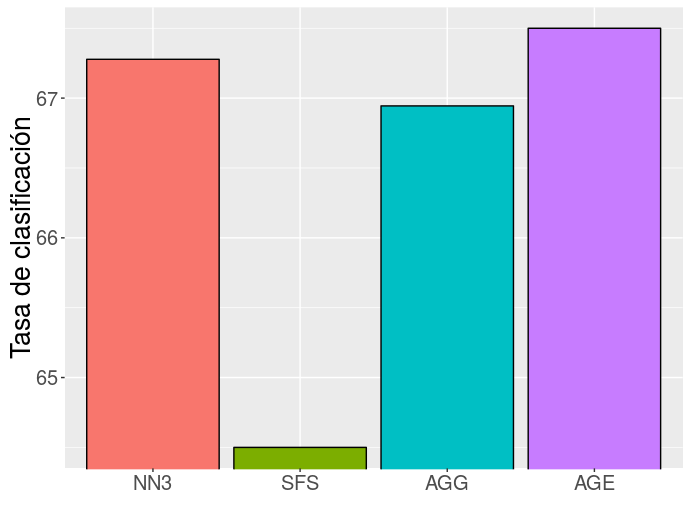
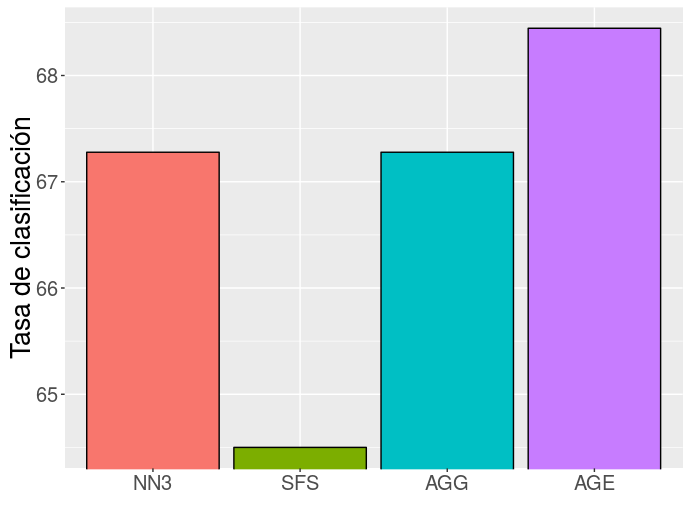
Subsanados fallos tipográficos, regeneradas gráficas

diff --git a/tex/genetic.tex b/tex/genetic.tex
@@ -258,29 +258,47 @@ obtenido.
   \normalsize
   
 \item \textbf{Generación de soluciones aleatorias}:
-  La población inicial en ambos casos se inicializa haciendo uso del siguiente procedimiento (con 30 cromosomas en el caso
-  del generacional y 2 en el estacionario):
+  La población inicial en ambos casos se inicializa haciendo uso del siguiente procedimiento, con 30 cromosomas en ambos casos.
+  (\texttt{num\_crom = 30})\\
   
   \small\texttt{\input{AG_gen_init}}
   \normalsize
 
 \item \textbf{Mecanismo de selección}:
+  El mecanismo de selección empleado ha sido el siguiente, donde para el modelo generacional \texttt{size\_generation = 30} y para
+  el estacionario se tiene \texttt{size\_generation = 2}, y en ambos casos el tamaño de la población es 30 (\texttt{num\_crom=30}).
 
+  Se emparejan aleatoriamente un número \texttt{size\_generation} de cromosomas, y se decide cuál se queda en la población por
+  torneo binario.\\
+  
   \small\texttt{\input{AG_selection}}
   \normalsize
   
+  
 \item \textbf{Operador de cruce}:
 
-  Se incluye a continuación el pseudocódigo del operador de cruce OX y de la función que se emplea para aplicarlo
+  Se incluye a continuación el pseudocódigo del operador de cruce OX y de la función que se emplea para aplicarlo\\
 
   \small\texttt{\input{AG_crossover}}
   \normalsize
 
+  
+  Se ha optado por hacer en cada generación un número de cruces equivalente a la esperanza matemática de cruzar. Esto es
+  correcto porque los cruces siguen una distribución uniforme a lo largo de las iteraciones (ya que los números aleatorios
+  que generamos siguen una distribución uniforme).
+  
 \item \textbf{Operador de mutación}:
 
   \small\texttt{\input{AG_mutation}}
   \normalsize
   
+  Puesto que la parte de selección incluía un matiz aleatorio en la ordenación del vector, mutamos siempre los cromosomas
+  que nos encontramos al principio. Se ha querido adaptar esta función para que funcione tanto para el modelo generacional
+  como el estacionario. Por tanto, el problema de usar la esperanza matemática de mutar en lugar de generar un aleatorio
+  por cada gen se materializa en que para pocos genes (wdbc tiene 30 predictores), y para 2 padres, tendremos 60 genes,
+  de los cuales sólo debemos mutar uno. ¿Mutamos siempre uno, no mutamos nunca ninguno en este caso,\ldots? Por eso para
+  resolver la tesitura se calcula el número, se lanza un aleatorio, y si es menor que él, mutaremos un gen en dicha llamada.
+  Caso opuesto, no.
 
 \end{itemize}
 
@@ -293,6 +311,9 @@ en los dos genéticos.
 \small{\texttt{\input{AGs}}}
 \normalsize
 
+La forma en que funciona \texttt{keep\_elitism} para hayar los peores de la población es ordenándola por \textit{score}.
+Además, sustituye al peor de la población si es peor en términos de \textit{score} que el anterior mejor, y si el anterior
+mejor no está en la generación nueva.
 
 La función \texttt{reeval} se emplea para calcular el \textit{score} a aquellas máscaras que se han modificado durante
 el proceso de evaluación genética, y que se han marcado a reevaluar mediante un \textit{flag}. Las máscaras que no se han
@@ -301,7 +322,7 @@ modificado no sufreen reevaluación del score.
 Sea a partir de aquí $n$ el número de predictores de los respectivos \textit{datasets}, $M$ el tamaño de la población, 
 siendo de 30 cromosomas en el caso del algoritmo generacional, y de 2 padres en el algoritmo estacionario.
 
-La estructura de los dos algoritmos a partir de todos estos procedimientos auxiliares se detalla a continuación:
+La estructura de los dos algoritmos a partir de todos estos procedimientos auxiliares se detalla a continuación.
 
 \subsection{Algoritmo genético generacional}
 
@@ -338,7 +359,7 @@ Se describe a continuación un esquema de los ficheros de código:
 \begin{itemize}
  \item \hrefr{main.r}: de arriba a abajo, carga los paquetes necesarios, incluye el código fuente de otros ficheros
   (\hrefr{aux.r}, \hrefr{AGs.r}, \ldots) y lee los parámetros necesarios, entre ellos las 
-  semillas aleatorias (12345678, 23456781, 34567812, 45678123, 56781234) del fichero \hrefr{params.r}
+  semillas aleatorias (12345678, 23456781, 34567812, 45678123, 56781234) desde el fichero \hrefr{params.r}
   
   Se ejecuta la función \texttt{cross.eval(algoritmo)}, que almacena los resultados de la ejecución en la lista
   \texttt{algoritmo.results}. Esta lista contendrá 3 dataframes con los datos del 5x2 cross validation, uno por dataset, 
@@ -443,17 +464,17 @@ Se describe a continuación un esquema de los ficheros de código:
     \begin{tabular}{|c|r|r|r|r|r|r|r|r|r|r|r|r|}
     \hline
     \multicolumn{1}{|l|}{} & \multicolumn{1}{c|}{\textbf{\textit{\%\_cl\_test}}} & \multicolumn{1}{c|}{\textbf{\textit{\%\_cl train}}} & \multicolumn{1}{c|}{\textbf{\textit{tasa\_red}}} & \multicolumn{1}{c|}{\textbf{T(s)}} & \multicolumn{1}{c|}{\textbf{\textit{\%\_cl\_test}}} & \multicolumn{1}{c|}{\textbf{\textit{\%\_cl\_train}}} & \multicolumn{1}{c|}{\textbf{\textit{tasa\_red}}} & \multicolumn{1}{c|}{\textbf{T(s)}} & \multicolumn{1}{c|}{\textbf{\textit{\%\_cl\_test}}} & \multicolumn{1}{c|}{\textbf{\textit{\%\_cl\_train}}} & \multicolumn{1}{c|}{\textbf{\textit{tasa\_red}}} & \multicolumn{1}{c|}{\textbf{T(s)}} \\ \hline
-    \textbf{Partición 1-1} & 95.43860 & 99.29577 & 0.40000 & 45.11300 & 63.88889 & 70.55556 & 0.45556 & 69.32600 & 65.46392 & 69.79167 & 0.47036 & 548.60900 \\ \hline
-    \textbf{Partición 1-2} & 96.12676 & 98.24561 & 0.50000 & 46.17800 & 65.55556 & 67.77778 & 0.48889 & 72.93000 & 62.50000 & 72.16495 & 0.47036 & 508.94200 \\ \hline
-    \textbf{Partición 2-1} & 94.38596 & 97.88732 & 0.63333 & 47.71000 & 71.66667 & 67.77778 & 0.60000 & 69.14200 & 62.37113 & 71.87500 & 0.51383 & 544.87500 \\ \hline
-    \textbf{Partición 2-2} & 94.01408 & 98.59649 & 0.53333 & 46.75800 & 63.88889 & 73.33333 & 0.44444 & 70.25600 & 61.97917 & 68.55670 & 0.46640 & 512.54800 \\ \hline
-    \textbf{Partición 3-1} & 95.78947 & 97.18310 & 0.46667 & 45.65800 & 69.44444 & 68.33333 & 0.48889 & 73.70700 & 61.34021 & 70.31250 & 0.45850 & 531.27300 \\ \hline
-    \textbf{Partición 3-2} & 95.42254 & 98.24561 & 0.50000 & 45.97100 & 63.33333 & 76.66667 & 0.53333 & 73.17100 & 60.93750 & 65.97938 & 0.48617 & 513.37600 \\ \hline
-    \textbf{Partición 4-1} & 93.33333 & 99.29577 & 0.43333 & 45.59200 & 71.11111 & 69.44444 & 0.57778 & 68.36900 & 64.94845 & 68.75000 & 0.52964 & 540.03000 \\ \hline
-    \textbf{Partición 4-2} & 97.53521 & 97.89474 & 0.46667 & 45.24500 & 67.77778 & 73.88889 & 0.51111 & 71.97300 & 62.50000 & 70.10309 & 0.50988 & 530.51000 \\ \hline
-    \textbf{Partición 5-1} & 93.68421 & 97.53521 & 0.50000 & 47.42200 & 63.88889 & 72.22222 & 0.52222 & 70.25100 & 65.97938 & 67.18750 & 0.53755 & 547.91900 \\ \hline
-    \textbf{Partición 5-2} & 95.07042 & 98.24561 & 0.36667 & 47.45400 & 68.88889 & 66.11111 & 0.57778 & 72.09200 & 65.62500 & 68.04124 & 0.48221 & 497.80500 \\ \hline
-    \textbf{Media} & 95.08006 & 98.24252 & 0.48000 & 46.31010 & 66.94445 & 70.61111 & 0.52000 & 71.12170 & 63.36448 & 69.27620 & 0.49249 & 527.58870 \\ \hline
+    \textbf{Partición 1-1} & 96.14035 & 98.94366 & 0.46667 & 42.45600 & 63.88889 & 70.55556 & 0.53333 & 69.70300 & 69.07216 & 68.22917 & 0.47431 & 540.86500 \\ \hline
+    \textbf{Partición 1-2} & 95.07042 & 98.59649 & 0.63333 & 43.79400 & 65.55556 & 71.11111 & 0.47778 & 70.91200 & 66.14583 & 70.61856 & 0.58498 & 501.70800 \\ \hline
+    \textbf{Partición 2-1} & 95.08772 & 97.18310 & 0.50000 & 45.44200 & 66.11111 & 67.77778 & 0.48889 & 74.08400 & 62.37113 & 72.39583 & 0.46640 & 537.66100 \\ \hline
+    \textbf{Partición 2-2} & 96.47887 & 98.94737 & 0.46667 & 45.10000 & 62.77778 & 75.55556 & 0.53333 & 77.48200 & 61.97917 & 65.97938 & 0.49012 & 496.93400 \\ \hline
+    \textbf{Partición 3-1} & 96.14035 & 97.18310 & 0.53333 & 43.84000 & 73.33333 & 68.88889 & 0.48889 & 77.51000 & 63.91753 & 67.18750 & 0.49012 & 520.82900 \\ \hline
+    \textbf{Partición 3-2} & 95.07042 & 98.24561 & 0.46667 & 45.26400 & 66.66667 & 78.88889 & 0.48889 & 77.85100 & 61.97917 & 67.52577 & 0.46640 & 492.01200 \\ \hline
+    \textbf{Partición 4-1} & 95.08772 & 99.29577 & 0.40000 & 44.32100 & 73.33333 & 69.44444 & 0.47778 & 72.34400 & 68.04124 & 68.22917 & 0.54545 & 533.04200 \\ \hline
+    \textbf{Partición 4-2} & 96.83099 & 97.19298 & 0.56667 & 44.96400 & 66.11111 & 73.88889 & 0.52222 & 72.25600 & 61.45833 & 69.58763 & 0.50593 & 503.29800 \\ \hline
+    \textbf{Partición 5-1} & 96.84211 & 97.53521 & 0.33333 & 45.77500 & 65.55556 & 73.88889 & 0.53333 & 65.11200 & 60.30928 & 68.22917 & 0.52964 & 551.07800 \\ \hline
+    \textbf{Partición 5-2} & 92.60563 & 98.24561 & 0.63333 & 49.35300 & 69.44444 & 65.55556 & 0.46667 & 65.12700 & 64.06250 & 65.97938 & 0.55731 & 518.51600 \\ \hline
+    \textbf{Media} & 95.53546 & 98.13689 & 0.50000 & 45.03090 & 67.27778 & 71.55556 & 0.50111 & 72.23810 & 63.93363 & 68.39616 & 0.51107 & 519.59430 \\ \hline
     \end{tabular}
     \end{adjustbox}
     \label{AGG}
@@ -466,17 +487,17 @@ Se describe a continuación un esquema de los ficheros de código:
     \hline
     \multicolumn{1}{|l|}{} & \multicolumn{ 4}{c|}{\textbf{\textit{Wdbc}}} & \multicolumn{ 4}{c|}{\textbf{\textit{Movement\_Libras}}} & \multicolumn{ 4}{c|}{\textbf{\textit{Arrhytmia}}} \\ \hline
     \multicolumn{1}{|l|}{} & \multicolumn{1}{c|}{\textbf{\textit{\%\_cl\_test}}} & \multicolumn{1}{c|}{\textbf{\textit{\%\_cl train}}} & \multicolumn{1}{c|}{\textbf{\textit{tasa\_red}}} & \multicolumn{1}{c|}{\textbf{T(s)}} & \multicolumn{1}{c|}{\textbf{\textit{\%\_cl\_test}}} & \multicolumn{1}{c|}{\textbf{\textit{\%\_cl\_train}}} & \multicolumn{1}{c|}{\textbf{\textit{tasa\_red}}} & \multicolumn{1}{c|}{\textbf{T(s)}} & \multicolumn{1}{c|}{\textbf{\textit{\%\_cl\_test}}} & \multicolumn{1}{c|}{\textbf{\textit{\%\_cl\_train}}} & \multicolumn{1}{c|}{\textbf{\textit{tasa\_red}}} & \multicolumn{1}{c|}{\textbf{T(s)}} \\ \hline
-    \textbf{Partición 1-1} & 96.14035 & 98.94366 & 0.46667 & 51.31300 & 67.22222 & 70.55556 & 0.56667 & 76.69800 & 66.49485 & 67.70833 & 0.45850 & 537.95500 \\ \hline
-    \textbf{Partición 1-2} & 95.07042 & 97.54386 & 0.50000 & 52.01200 & 67.22222 & 67.77778 & 0.53333 & 77.25400 & 66.66667 & 69.58763 & 0.50988 & 484.26300 \\ \hline
-    \textbf{Partición 2-1} & 96.14035 & 96.83099 & 0.43333 & 53.46600 & 69.44444 & 66.11111 & 0.45556 & 76.97900 & 65.97938 & 70.31250 & 0.52964 & 517.42800 \\ \hline
-    \textbf{Partición 2-2} & 95.07042 & 98.24561 & 0.46667 & 52.37200 & 62.77778 & 74.44444 & 0.48889 & 77.41500 & 63.02083 & 67.52577 & 0.49407 & 482.03800 \\ \hline
-    \textbf{Partición 3-1} & 95.78947 & 96.83099 & 0.40000 & 50.93600 & 73.88889 & 65.55556 & 0.50000 & 81.32900 & 62.88660 & 67.18750 & 0.52964 & 508.25000 \\ \hline
-    \textbf{Partición 3-2} & 94.36620 & 97.54386 & 0.46667 & 50.19900 & 63.88889 & 79.44444 & 0.53333 & 77.27300 & 65.10417 & 65.97938 & 0.48221 & 484.88200 \\ \hline
-    \textbf{Partición 4-1} & 95.43860 & 99.29577 & 0.43333 & 51.66500 & 71.11111 & 68.88889 & 0.45556 & 75.97700 & 67.52577 & 65.62500 & 0.51383 & 512.91900 \\ \hline
-    \textbf{Partición 4-2} & 96.12676 & 96.49123 & 0.40000 & 53.90800 & 63.33333 & 73.33333 & 0.48889 & 80.06300 & 63.02083 & 67.01031 & 0.56522 & 507.23600 \\ \hline
-    \textbf{Partición 5-1} & 93.68421 & 97.53521 & 0.50000 & 52.59400 & 65.00000 & 71.66667 & 0.54444 & 78.05500 & 63.40206 & 66.14583 & 0.48617 & 537.42000 \\ \hline
-    \textbf{Partición 5-2} & 95.42254 & 98.24561 & 0.36667 & 50.38200 & 71.11111 & 66.66667 & 0.52222 & 78.91300 & 61.97917 & 68.55670 & 0.49802 & 493.28200 \\ \hline
-    \textbf{Media} & 95.32493 & 97.75068 & 0.44333 & 51.88470 & 67.50000 & 70.44445 & 0.50889 & 77.99560 & 64.60803 & 67.56390 & 0.50672 & 506.56730 \\ \hline
+    \textbf{Partición 1-1} & 95.43860 & 99.29577 & 0.40000 & 50.12100 & 65.00000 & 71.66667 & 0.57778 & 71.52400 & 67.52577 & 69.79167 & 0.49802 & 520.74700 \\ \hline
+    \textbf{Partición 1-2} & 96.47887 & 98.24561 & 0.43333 & 52.61000 & 68.88889 & 69.44444 & 0.43333 & 78.16000 & 66.14583 & 68.55670 & 0.58498 & 474.08400 \\ \hline
+    \textbf{Partición 2-1} & 95.43860 & 97.53521 & 0.60000 & 52.66800 & 72.22222 & 66.66667 & 0.47778 & 75.68800 & 64.43299 & 70.31250 & 0.51383 & 523.33000 \\ \hline
+    \textbf{Partición 2-2} & 95.42254 & 98.59649 & 0.50000 & 47.40900 & 65.00000 & 72.77778 & 0.50000 & 75.94300 & 66.66667 & 69.58763 & 0.46640 & 503.43600 \\ \hline
+    \textbf{Partición 3-1} & 95.78947 & 97.53521 & 0.60000 & 45.66200 & 73.88889 & 67.77778 & 0.50000 & 80.08000 & 61.85567 & 67.70833 & 0.52174 & 545.61800 \\ \hline
+    \textbf{Partición 3-2} & 94.01408 & 98.24561 & 0.53333 & 47.37400 & 65.00000 & 79.44444 & 0.52222 & 75.07400 & 63.54167 & 66.49485 & 0.57708 & 482.20600 \\ \hline
+    \textbf{Partición 4-1} & 94.73684 & 99.29577 & 0.40000 & 46.46900 & 72.22222 & 67.22222 & 0.42222 & 74.29900 & 63.91753 & 67.70833 & 0.47826 & 516.64900 \\ \hline
+    \textbf{Partición 4-2} & 96.47887 & 97.54386 & 0.50000 & 47.50900 & 67.22222 & 72.77778 & 0.46667 & 78.42300 & 63.02083 & 68.55670 & 0.55336 & 490.41700 \\ \hline
+    \textbf{Partición 5-1} & 96.49123 & 97.88732 & 0.50000 & 47.69300 & 66.66667 & 73.33333 & 0.54444 & 72.92700 & 62.88660 & 68.22917 & 0.50988 & 531.90500 \\ \hline
+    \textbf{Partición 5-2} & 95.07042 & 98.24561 & 0.53333 & 45.56600 & 68.33333 & 68.33333 & 0.50000 & 70.38900 & 64.06250 & 71.13402 & 0.50988 & 493.30900 \\ \hline
+    \textbf{Media} & 95.53595 & 98.24265 & 0.50000 & 48.30810 & 68.44444 & 70.94444 & 0.49444 & 75.25070 & 64.40561 & 68.80799 & 0.52134 & 508.17010 \\ \hline
     \end{tabular}
     \end{adjustbox}
     \label{AGE}

diff --git a/tex/multi-restart.tex b/tex/multi-restart.tex
@@ -254,7 +254,7 @@ exceptuando la clase, donde un 1 en la posición $i-$ésima indica que esa carac
 \small\texttt{\input{tasa_clasificacion}}
 \normalsize
 
-\item \textbf{Generación de solución inicial: }
+\item \textbf{Generación de solución aleatoria inicial: }
   \begin{itemize}
    \item BMB: En la BMB se generarán 25 soluciones aleatorias sobre las que se aplicará búsqueda local.
    para refinarlas.\\
@@ -262,15 +262,7 @@ exceptuando la clase, donde un 1 en la posición $i-$ésima indica que esa carac
    \small\texttt{\input{BMB_gen_init}}
    \normalsize
    
-   \item GRASP: La solución inicial se generará mediante un \textit{greedy} aleatorizado, y se refinará mediante
-   la búsqueda local, quedándonos con la mejor de entre 25 generadas.\\
-   
-   \small\texttt{\input{GRASP_gen_init}}
-   \normalsize
-   
-   \item ILS: Se generará una solución inicial aleatoria mediante el procedimiento descrito a continuación, y sobre esa se
-   aplicará búsqueda local, y el resto de iteraciones del algoritmo (24), se aplicará el mismo sobre la mejor solución
-   mutada.\\
+   \item ILS: Se generará una solución inicial aleatoria mediante el procedimiento descrito a continuación:
    
    \small\texttt{\input{ILS_gen_init}}
    \normalsize
@@ -302,16 +294,29 @@ Se incluyen a continuación una descripción de cada metaheurística empleada ju
 
 Sea a partir de aquí $n$ el número de predictores de los respectivos \textit{datasets}.
 \subsection{Búsqueda multiarranque básica}
+Puesto que \texttt{max\_arranques} vale 25, se generan 25 soluciones iniciales, se les aplica búsqueda local, y nos quedamos
+con la que maximiza el \textit{score}.\\
 
 \small{\texttt{\input{BMB}}}
 \normalsize
 
 \subsection{GRASP}
+La solución inicial se generará mediante un \textit{greedy} aleatorizado, y se refinará mediante
+la búsqueda local, quedándonos con la mejor de entre 25 generadas.\\
+   
+\small\texttt{\input{GRASP_gen_init}}
+\normalsize
+
+Se generan 25 soluciones greedy aleatorizadas (ya que en este caso \texttt{max\_arranques} vale 25), se les aplica búsqueda
+local, y nos quedamos con la que maximiza el \textit{score}.\\
 
 \small{\texttt{\input{GRASP}}}
 \normalsize
 
 \subsection{Búsqueda Local Reiterada (ILS)}
+Se genera una solución inicial aleatoria mediante el procedimiento descrito anteriormente, y sobre esa se
+aplica búsqueda local, y el resto de iteraciones del algoritmo (24), se efectúa el mismo procedimiento sobre la mejor solución
+mutada.\\
 
 \small{\texttt{\input{ILS}}}
 \normalsize
@@ -488,18 +493,18 @@ Se describe a continuación un esquema de los ficheros de código:
   \begin{tabular}{|c|r|r|r|r|r|r|r|r|r|r|r|r|}
   \hline
   \multicolumn{1}{|l|}{} & \multicolumn{ 4}{c|}{\textbf{\textit{Wdbc}}} & \multicolumn{ 4}{c|}{\textbf{\textit{Movement\_Libras}}} & \multicolumn{ 4}{c|}{\textbf{\textit{Arrhytmia}}} \\ \hline
-  \multicolumn{1}{|l|}{} & \multicolumn{1}{c|}{\textbf{\textit{\%\_clas\_test}}} & \multicolumn{1}{c|}{\textbf{\textit{\%\_clas train}}} & \multicolumn{1}{c|}{\textbf{\textit{tasa\_red}}} & \multicolumn{1}{c|}{\textbf{T(s)}} & \multicolumn{1}{c|}{\textbf{\textit{\%\_clas\_test}}} & \multicolumn{1}{c|}{\textbf{\textit{\%\_clas\_train}}} & \multicolumn{1}{c|}{\textbf{\textit{tasa\_red}}} & \multicolumn{1}{c|}{\textbf{T(s)}} & \multicolumn{1}{c|}{\textbf{\textit{\%\_clas\_test}}} & \multicolumn{1}{c|}{\textbf{\textit{\%\_clas\_train}}} & \multicolumn{1}{c|}{\textbf{\textit{tasa\_red}}} & \multicolumn{1}{c|}{\textbf{T(s)}} \\ \hline
-  \textbf{Partición 1-1} & 95.78947 & 99.29577 & 0.66667 & 3.89100 & 65.00000 & 73.33333 & 0.54444 & 17.71700 & 65.97938 & 68.22917 & 0.49407 & 430.85800 \\ \hline
-  \textbf{Partición 1-2} & 96.47887 & 98.59649 & 0.63333 & 4.01700 & 68.33333 & 68.88889 & 0.51111 & 19.27500 & 66.14583 & 71.13402 & 0.53360 & 462.95000 \\ \hline
-  \textbf{Partición 2-1} & 96.84211 & 98.23944 & 0.60000 & 4.31800 & 70.00000 & 71.11111 & 0.50000 & 24.34100 & 65.46392 & 72.39583 & 0.53360 & 532.44900 \\ \hline
-  \textbf{Partición 2-2} & 95.42254 & 98.94737 & 0.50000 & 4.45000 & 65.00000 & 74.44444 & 0.42222 & 22.60300 & 66.14583 & 69.07216 & 0.53360 & 425.70100 \\ \hline
-  \textbf{Partición 3-1} & 96.49123 & 97.88732 & 0.50000 & 5.16800 & 72.77778 & 73.33333 & 0.51111 & 22.46600 & 59.27835 & 67.70833 & 0.45059 & 573.51300 \\ \hline
-  \textbf{Partición 3-2} & 95.07042 & 98.59649 & 0.40000 & 4.67000 & 65.55556 & 78.33333 & 0.47778 & 20.18200 & 67.18750 & 63.91753 & 0.55731 & 484.83600 \\ \hline
-  \textbf{Partición 4-1} & 94.73684 & 99.29577 & 0.43333 & 4.56700 & 71.11111 & 67.22222 & 0.56667 & 19.24300 & 67.01031 & 70.31250 & 0.45059 & 472.73000 \\ \hline
-  \textbf{Partición 4-2} & 98.23944 & 98.24561 & 0.66667 & 3.76200 & 67.22222 & 75.00000 & 0.50000 & 18.53900 & 63.02083 & 67.52577 & 0.48617 & 445.80500 \\ \hline
-  \textbf{Partición 5-1} & 96.14035 & 98.23944 & 0.60000 & 4.72700 & 63.33333 & 75.00000 & 0.46667 & 23.46200 & 61.34021 & 70.31250 & 0.51779 & 478.56200 \\ \hline
-  \textbf{Partición 5-2} & 92.60563 & 98.24561 & 0.43333 & 4.12600 & 69.44444 & 67.77778 & 0.51111 & 20.80600 & 64.58333 & 66.49485 & 0.45059 & 474.51200 \\ \hline
-  \textbf{Media} & 95.78169 & 98.55893 & 0.54333 & 4.36960 & 67.77778 & 72.44444 & 0.50111 & 20.86340 & 64.61555 & 68.71027 & 0.50079 & 478.19160 \\ \hline
+  \multicolumn{1}{|l|}{} & \multicolumn{1}{c|}{\textbf{\textit{\%\_cl\_test}}} & \multicolumn{1}{c|}{\textbf{\textit{\%\_cl train}}} & \multicolumn{1}{c|}{\textbf{\textit{tasa\_red}}} & \multicolumn{1}{c|}{\textbf{T(s)}} & \multicolumn{1}{c|}{\textbf{\textit{\%\_cl\_test}}} & \multicolumn{1}{c|}{\textbf{\textit{\%\_cl\_train}}} & \multicolumn{1}{c|}{\textbf{\textit{tasa\_red}}} & \multicolumn{1}{c|}{\textbf{T(s)}} & \multicolumn{1}{c|}{\textbf{\textit{\%\_cl\_test}}} & \multicolumn{1}{c|}{\textbf{\textit{\%\_cl\_train}}} & \multicolumn{1}{c|}{\textbf{\textit{tasa\_red}}} & \multicolumn{1}{c|}{\textbf{T(s)}} \\ \hline
+  \textbf{Partición 1-1} & 96.84211 & 98.94366 & 0.50000 & 4.77400 & 62.22222 & 68.88889 & 0.57778 & 21.96400 & 67.01031 & 69.79167 & 0.48617 & 547.73100 \\ \hline
+  \textbf{Partición 1-2} & 95.42254 & 98.59649 & 0.66667 & 4.78400 & 61.11111 & 63.33333 & 0.51111 & 23.65400 & 65.10417 & 69.07216 & 0.50198 & 557.80000 \\ \hline
+  \textbf{Partición 2-1} & 97.54386 & 97.88732 & 0.46667 & 5.23500 & 70.55556 & 68.33333 & 0.41111 & 24.52000 & 65.46392 & 72.91667 & 0.49407 & 570.61600 \\ \hline
+  \textbf{Partición 2-2} & 96.47887 & 99.29825 & 0.56667 & 4.70900 & 65.55556 & 73.88889 & 0.48889 & 25.60200 & 61.45833 & 69.07216 & 0.49012 & 549.34300 \\ \hline
+  \textbf{Partición 3-1} & 96.84211 & 98.23944 & 0.53333 & 5.49400 & 71.66667 & 67.22222 & 0.51111 & 26.67000 & 63.40206 & 70.31250 & 0.48617 & 549.35500 \\ \hline
+  \textbf{Partición 3-2} & 95.07042 & 98.59649 & 0.43333 & 4.51000 & 66.66667 & 77.22222 & 0.51111 & 20.65300 & 62.50000 & 65.46392 & 0.52174 & 512.64700 \\ \hline
+  \textbf{Partición 4-1} & 94.73684 & 99.29577 & 0.43333 & 4.94000 & 71.66667 & 70.00000 & 0.52222 & 21.75600 & 65.46392 & 67.18750 & 0.52174 & 608.64800 \\ \hline
+  \textbf{Partición 4-2} & 96.83099 & 97.54386 & 0.40000 & 5.37500 & 65.00000 & 73.88889 & 0.54444 & 20.78000 & 62.50000 & 68.04124 & 0.54150 & 552.57200 \\ \hline
+  \textbf{Partición 5-1} & 96.84211 & 97.88732 & 0.26667 & 5.98500 & 66.11111 & 74.44444 & 0.45556 & 21.68800 & 62.37113 & 71.35417 & 0.51779 & 474.18500 \\ \hline
+  \textbf{Partición 5-2} & 94.36620 & 98.59649 & 0.50000 & 4.97300 & 67.22222 & 66.66667 & 0.46667 & 19.75400 & 67.70833 & 69.58763 & 0.54545 & 430.18100 \\ \hline
+  \textbf{Media} & 96.09761 & 98.48851 & 0.47667 & 5.07790 & 66.77778 & 70.38889 & 0.50000 & 22.70410 & 64.29822 & 69.27996 & 0.51067 & 535.30780 \\ \hline
   \end{tabular}
   \end{adjustbox}
   \label{ILS}

diff --git a/tex/AG_selection.tex b/tex/AG_selection.tex
@@ -1,13 +1,13 @@
 % Generator: GNU source-highlight, by Lorenzo Bettini, http://www.gnu.org/software/src-highlite
 \noindent
-\mbox{}\textbf{\textcolor{Blue}{def}}\ selection\textcolor{BrickRed}{(}num$\_$crom\textcolor{BrickRed}{)}\textcolor{Red}{\{} \\
-\mbox{}\ \ \ \ pairs\ \textcolor{BrickRed}{=}\ \textcolor{BrickRed}{[}\ \textbf{\textcolor{Blue}{for}}\ i\ \textbf{\textcolor{Blue}{in}}\ \textcolor{Red}{\{}\textcolor{Purple}{1}\textcolor{BrickRed}{,..,}num$\_$crom\textcolor{Red}{\}}\ \textcolor{Red}{\{}\textcolor{Purple}{1}\textcolor{BrickRed}{..}n\textcolor{Red}{\}}\textcolor{BrickRed}{.}random\textcolor{BrickRed}{(}\textcolor{Purple}{0}\ \textbf{\textcolor{Blue}{or}}\ \textcolor{Purple}{1}\textcolor{BrickRed}{)}\ \textcolor{BrickRed}{]} \\
+\mbox{}\textbf{\textcolor{Blue}{def}}\ selection\textcolor{BrickRed}{(}num$\_$crom\textcolor{BrickRed}{)} \\
+\mbox{}\ \ \ \ pairs\ \textcolor{BrickRed}{=}\ \textcolor{BrickRed}{[}\ \textbf{\textcolor{Blue}{for}}\ i\ \textbf{\textcolor{Blue}{in}}\ \textcolor{Red}{\{}\textcolor{Purple}{1}\textcolor{BrickRed}{,..,}size$\_$generation\textcolor{Red}{\}} \\
+\mbox{}\ \ \ \ \ \ \ \ \ \ \ \ \textcolor{BrickRed}{(}random\textcolor{BrickRed}{(}\textcolor{Red}{\{}\textcolor{Purple}{0}\textcolor{BrickRed}{,...,}num$\_$crom\textcolor{Red}{\}}\textcolor{BrickRed}{),}\ random\textcolor{BrickRed}{(}\textcolor{Red}{\{}\textcolor{Purple}{0}\textcolor{BrickRed}{,...,}num$\_$crom\textcolor{Red}{\}}\textcolor{BrickRed}{))}\ \textcolor{BrickRed}{]} \\
 \mbox{} \\
-\mbox{}\ \ \ \ v\ \textcolor{BrickRed}{=[}\textbf{\textcolor{Blue}{for}}\ p\ \textbf{\textcolor{Blue}{in}}\ pairs\textcolor{Red}{\{} \\
-\mbox{}\ \ \ \ \ \ \ \ \textbf{\textcolor{Blue}{if}}\textcolor{BrickRed}{(}pair\textcolor{BrickRed}{.}first\textcolor{BrickRed}{().}fitness\ \textcolor{BrickRed}{\textless{}}\ pair\textcolor{BrickRed}{.}second\textcolor{BrickRed}{().}fitness\textcolor{BrickRed}{)} \\
-\mbox{}\ \ \ \ \ \ \ \ \ \ \ \ \textbf{\textcolor{Blue}{yield}}\ pair\textcolor{BrickRed}{.}first\textcolor{BrickRed}{()} \\
+\mbox{}\ \ \ \ v\ \textcolor{BrickRed}{=[}\ \textbf{\textcolor{Blue}{for}}\ p\ \textbf{\textcolor{Blue}{in}}\ pairs\textcolor{Red}{\{} \\
+\mbox{}\ \ \ \ \ \ \ \ \textbf{\textcolor{Blue}{if}}\textcolor{BrickRed}{(}population\textcolor{BrickRed}{[}p\textcolor{BrickRed}{.}first\textcolor{BrickRed}{()].}fitness\ \textcolor{BrickRed}{\textless{}}\ population\textcolor{BrickRed}{[}p\textcolor{BrickRed}{.}second\textcolor{BrickRed}{()].}fitness\textcolor{BrickRed}{)} \\
+\mbox{}\ \ \ \ \ \ \ \ \ \ \ \ \textbf{\textcolor{Blue}{yield}}\ population\textcolor{BrickRed}{[}p\textcolor{BrickRed}{.}first\textcolor{BrickRed}{()]} \\
 \mbox{}\ \ \ \ \ \ \ \ \textbf{\textcolor{Blue}{else}} \\
-\mbox{}\ \ \ \ \ \ \ \ \ \ \ \ \textbf{\textcolor{Blue}{yield}}\ pair\textcolor{BrickRed}{.}second\textcolor{BrickRed}{()} \\
-\mbox{}\ \ \ \ \textcolor{BrickRed}{]} \\
+\mbox{}\ \ \ \ \ \ \ \ \ \ \ \ \textbf{\textcolor{Blue}{yield}}\ population\textcolor{BrickRed}{[}p\textcolor{BrickRed}{.}second\textcolor{BrickRed}{()]}\ \textcolor{BrickRed}{]} \\
 \mbox{}\textcolor{Red}{\}} \\
 \mbox{}

diff --git a/tex/AG_crossover.tex b/tex/AG_crossover.tex
@@ -14,9 +14,11 @@
 \mbox{}\ \ \ \ i\textcolor{BrickRed}{=}\textcolor{Purple}{0} \\
 \mbox{} \\
 \mbox{}\ \ \ \ \textbf{\textcolor{Blue}{for}}\textcolor{BrickRed}{(}j\textcolor{BrickRed}{=}\textcolor{Purple}{0}\textcolor{BrickRed}{;}\ j\textcolor{BrickRed}{\textless{}}n$\_$cruces\textcolor{BrickRed}{;}\ j\textcolor{BrickRed}{+=}\textcolor{Purple}{1}\textcolor{BrickRed}{)}\textcolor{Red}{\{} \\
-\mbox{}\ \ \ \ \ \ \ \ population\textcolor{BrickRed}{[}i\textcolor{BrickRed}{].}mask\ \textcolor{BrickRed}{=}\ crossover\textcolor{BrickRed}{(}population\textcolor{BrickRed}{[}i\textcolor{BrickRed}{],}\ population\textcolor{BrickRed}{[}i\textcolor{BrickRed}{+}\textcolor{Purple}{1}\textcolor{BrickRed}{])} \\
-\mbox{}\ \ \ \ \ \ \ \ population\textcolor{BrickRed}{[}i\textcolor{BrickRed}{+}\textcolor{Purple}{1}\textcolor{BrickRed}{].}mask\ \textcolor{BrickRed}{=}\ crossover\textcolor{BrickRed}{(}population\textcolor{BrickRed}{[}i\textcolor{BrickRed}{+}\textcolor{Purple}{1}\textcolor{BrickRed}{],}\ population\textcolor{BrickRed}{[}i\textcolor{BrickRed}{])} \\
+\mbox{}\ \ \ \ \ \ \ \ uno\ \ \textcolor{BrickRed}{=}\ OX\textcolor{BrickRed}{(}population\textcolor{BrickRed}{[}i\textcolor{BrickRed}{],}\ population\textcolor{BrickRed}{[}i\textcolor{BrickRed}{+}\textcolor{Purple}{1}\textcolor{BrickRed}{])} \\
+\mbox{}\ \ \ \ \ \ \ \ otro\ \textcolor{BrickRed}{=}\ OX\textcolor{BrickRed}{(}population\textcolor{BrickRed}{[}i\textcolor{BrickRed}{+}\textcolor{Purple}{1}\textcolor{BrickRed}{],}\ population\textcolor{BrickRed}{[}i\textcolor{BrickRed}{])} \\
 \mbox{} \\
+\mbox{}\ \ \ \ \ \ \ \ population\textcolor{BrickRed}{[}i\textcolor{BrickRed}{]}\ \textcolor{BrickRed}{=}\ uno \\
+\mbox{}\ \ \ \ \ \ \ \ population\textcolor{BrickRed}{[}i\textcolor{BrickRed}{+}\textcolor{Purple}{1}\textcolor{BrickRed}{]}\ \textcolor{BrickRed}{=}\ otro \\
 \mbox{}\ \ \ \ \ \ \ \ population\textcolor{BrickRed}{[}i\textcolor{BrickRed}{].}evaluated\ \textcolor{BrickRed}{=}\ False \\
 \mbox{}\ \ \ \ \ \ \ \ population\textcolor{BrickRed}{[}i\textcolor{BrickRed}{+}\textcolor{Purple}{1}\textcolor{BrickRed}{].}evaluated\ \textcolor{BrickRed}{=}\ False \\
 \mbox{}\ \ \ \ \textcolor{Red}{\}} \\

diff --git a/tex/AG_gen_init.tex b/tex/AG_gen_init.tex
@@ -1,8 +1,8 @@
 % Generator: GNU source-highlight, by Lorenzo Bettini, http://www.gnu.org/software/src-highlite
 \noindent
-\mbox{}population\ \textcolor{BrickRed}{=}\ \textcolor{BrickRed}{[}\textbf{\textcolor{Blue}{for}}\ i\ \textbf{\textcolor{Blue}{in}}\ \textcolor{BrickRed}{[}\textcolor{Purple}{1}\textcolor{BrickRed}{..}n\textcolor{BrickRed}{.}crom\textcolor{BrickRed}{]}\ \textbf{\textcolor{Blue}{yield}}\textcolor{Red}{\{} \\
+\mbox{}population\ \textcolor{BrickRed}{=}\ \textcolor{BrickRed}{[}\textbf{\textcolor{Blue}{for}}\ i\ \textbf{\textcolor{Blue}{in}}\ \textcolor{BrickRed}{[}\textcolor{Purple}{1}\textcolor{BrickRed}{..}num$\_$crom\textcolor{BrickRed}{]}\ \textbf{\textcolor{Blue}{yield}}\textcolor{Red}{\{} \\
 \mbox{}\ \ \ \ \textit{\textcolor{Brown}{\#\ n\ número\ de\ predictores\ del\ dataset}} \\
-\mbox{}\ \ \ \ mascara\ \textcolor{BrickRed}{=}\ \textcolor{Red}{\{}\textcolor{Purple}{1}\textcolor{BrickRed}{..}n\textcolor{Red}{\}}\textcolor{BrickRed}{.}random\textcolor{BrickRed}{(}\textcolor{Purple}{0}\ \textbf{\textcolor{Blue}{or}}\ \textcolor{Purple}{1}\textcolor{BrickRed}{)} \\
-\mbox{}\ \ \ \ list\textcolor{BrickRed}{(}mask\ \textcolor{BrickRed}{=}\ mask\textcolor{BrickRed}{,}\ fitness\ \textcolor{BrickRed}{=}\ tasa\textcolor{BrickRed}{(}mascara\textcolor{BrickRed}{),}\ evaluated\ \textcolor{BrickRed}{=}\ True\textcolor{BrickRed}{)} \\
+\mbox{}\ \ \ \ mascara\ \textcolor{BrickRed}{=}\ \textcolor{BrickRed}{[}\ random\textcolor{BrickRed}{(}\textcolor{Red}{\{}\textcolor{Purple}{0}\textcolor{BrickRed}{,}\textcolor{Purple}{1}\textcolor{Red}{\}}\textcolor{BrickRed}{)}\ from\ \textcolor{Purple}{0}\ to\ n\ \textcolor{BrickRed}{]} \\
+\mbox{}\ \ \ \ list\textcolor{BrickRed}{(}mask\ \textcolor{BrickRed}{=}\ mascara\textcolor{BrickRed}{,}\ fitness\ \textcolor{BrickRed}{=}\ tasa\textcolor{BrickRed}{(}mascara\textcolor{BrickRed}{),}\ evaluated\ \textcolor{BrickRed}{=}\ True\textcolor{BrickRed}{)} \\
 \mbox{}\ \textcolor{Red}{\}}\textcolor{BrickRed}{]} \\
 \mbox{}

diff --git a/tex/BMB.tex b/tex/BMB.tex
@@ -1,9 +1,10 @@
 % Generator: GNU source-highlight, by Lorenzo Bettini, http://www.gnu.org/software/src-highlite
 \noindent
 \mbox{}\textbf{\textcolor{Blue}{def}}\ BMB\textcolor{BrickRed}{()}\textcolor{Red}{\{} \\
-\mbox{}\ \ \ \ mascaras\ \textcolor{BrickRed}{=}\ \textcolor{BrickRed}{[}\ random$\_$mask\textcolor{BrickRed}{(}n\textcolor{BrickRed}{)}\ from\ \textcolor{Purple}{0}\ to\ max$\_$arranques\ \textcolor{BrickRed}{]} \\
-\mbox{}\ \ \ \ mascaras\ \textcolor{BrickRed}{=}\ \textcolor{BrickRed}{[}\ BL\textcolor{BrickRed}{(}m\textcolor{BrickRed}{):}\ m\ \$\textcolor{BrickRed}{\textbackslash{}}\textbf{\textcolor{Blue}{in}}\$\ mascaras\ \textcolor{BrickRed}{]} \\
-\mbox{}\ \ \ \ tasas\ \textcolor{BrickRed}{=}\ \textcolor{BrickRed}{[}\ tasa\textcolor{BrickRed}{.}clas\textcolor{BrickRed}{(}m\textcolor{BrickRed}{):}\ m\ \$\textcolor{BrickRed}{\textbackslash{}}\textbf{\textcolor{Blue}{in}}\$\ mascaras\ \textcolor{BrickRed}{]} \\
+\mbox{}\ \ \ \ \textit{\textcolor{Brown}{\#\ n\ el\ número\ de\ predictores\ de\ cada\ dataset}} \\
+\mbox{}\ \ \ \ mascaras\ \textcolor{BrickRed}{=}\ random$\_$init\textcolor{BrickRed}{(}n\textcolor{BrickRed}{)} \\
+\mbox{}\ \ \ \ mascaras\ \textcolor{BrickRed}{=}\ \textcolor{BrickRed}{[}\ BL\textcolor{BrickRed}{(}m\textcolor{BrickRed}{):}\ m\ \textbf{\textcolor{Blue}{in}}\ mascaras\ \textcolor{BrickRed}{]} \\
+\mbox{}\ \ \ \ tasas\ \textcolor{BrickRed}{=}\ \textcolor{BrickRed}{[}\ tasa\textcolor{BrickRed}{.}clas\textcolor{BrickRed}{(}m\textcolor{BrickRed}{):}\ m\ \textbf{\textcolor{Blue}{in}}\ mascaras\ \textcolor{BrickRed}{]} \\
 \mbox{} \\
 \mbox{}\ \ \ \ \textbf{\textcolor{Blue}{return}}\ mascaras\ \textcolor{BrickRed}{[}arg\ max\ tasas\textcolor{BrickRed}{]} \\
 \mbox{}\textcolor{Red}{\}} \\

diff --git a/tex/GRASP.tex b/tex/GRASP.tex
@@ -2,8 +2,8 @@
 \noindent
 \mbox{}\textbf{\textcolor{Blue}{def}}\ GRASP\textcolor{BrickRed}{()}\textcolor{Red}{\{} \\
 \mbox{}\ \ \ \ mascaras\ \textcolor{BrickRed}{=}\ \textcolor{BrickRed}{[}\ random$\_$greedy\textcolor{BrickRed}{(}n\textcolor{BrickRed}{)}\ from\ \textcolor{Purple}{1}\ to\ max$\_$arranques\ \textcolor{BrickRed}{]} \\
-\mbox{}\ \ \ \ mascaras\ \textcolor{BrickRed}{=}\ \textcolor{BrickRed}{[}\ BL\textcolor{BrickRed}{(}m\textcolor{BrickRed}{):}\ m\ \$\textcolor{BrickRed}{\textbackslash{}}\textbf{\textcolor{Blue}{in}}\$\ mascaras\ \textcolor{BrickRed}{]} \\
-\mbox{}\ \ \ \ tasas\ \textcolor{BrickRed}{=}\ \textcolor{BrickRed}{[}\ tasa\textcolor{BrickRed}{.}clas\textcolor{BrickRed}{(}m\textcolor{BrickRed}{):}\ m\ \$\textcolor{BrickRed}{\textbackslash{}}\textbf{\textcolor{Blue}{in}}\$\ mascaras\ \textcolor{BrickRed}{]} \\
+\mbox{}\ \ \ \ mascaras\ \textcolor{BrickRed}{=}\ \textcolor{BrickRed}{[}\ BL\textcolor{BrickRed}{(}m\textcolor{BrickRed}{):}\ m \textbf{\textcolor{Blue}{$\in$}}\ mascaras\ \textcolor{BrickRed}{]} \\
+\mbox{}\ \ \ \ tasas\ \textcolor{BrickRed}{=}\ \textcolor{BrickRed}{[}\ tasa\textcolor{BrickRed}{.}clas\textcolor{BrickRed}{(}m\textcolor{BrickRed}{):}\ m \textbf{\textcolor{Blue}{$\in$}}\ mascaras\ \textcolor{BrickRed}{]} \\
 \mbox{} \\
 \mbox{}\ \ \ \ \textbf{\textcolor{Blue}{return}}\ mascaras\ \textcolor{BrickRed}{[}arg\ max\ tasas\textcolor{BrickRed}{]} \\
 \mbox{}\textcolor{Red}{\}} \\

diff --git a/tex/AG_mutation.tex b/tex/AG_mutation.tex
@@ -7,7 +7,7 @@
 \mbox{} \\
 \mbox{}\ \ \ \ \textit{\textcolor{Brown}{\#\ Esto\ impide\ que\ mutemos\ siempre\ en\ el\ estacionario}} \\
 \mbox{}\ \ \ \ \textbf{\textcolor{Blue}{if}}\ \textcolor{BrickRed}{(}random\textcolor{BrickRed}{(}\textcolor{Purple}{0.0}\textcolor{BrickRed}{,}\ \textcolor{Purple}{1.0}\textcolor{BrickRed}{)}\ \textcolor{BrickRed}{\textless{}}\ mutations\textcolor{BrickRed}{)}\textcolor{Red}{\{} \\
-\mbox{}\ \ \ \ \ \ \ \ mutations\ \textcolor{BrickRed}{\textless{}-}\ ceil\textcolor{BrickRed}{(}n\textcolor{BrickRed}{.}mutations\textcolor{BrickRed}{)} \\
+\mbox{}\ \ \ \ \ \ \ \ mutations\ \textcolor{BrickRed}{\textless{}-}\ ceil\textcolor{BrickRed}{(}mutations\textcolor{BrickRed}{)} \\
 \mbox{} \\
 \mbox{}\ \ \ \ \ \ \ \ \textit{\textcolor{Brown}{\#\ Se\ escogen\ los\ genes\ que\ se\ mutarán\ junto\ a\ sus\ cromosomas}} \\
 \mbox{}\ \ \ \ \ \ \ \ crom\ \textcolor{BrickRed}{=}\ \textcolor{BrickRed}{[}\ \textbf{\textcolor{Blue}{for}}\ i\ \textcolor{BrickRed}{\textless{}}\ mutations\ random\textcolor{BrickRed}{[}\textcolor{Red}{\{}\textcolor{Purple}{0}\textcolor{BrickRed}{,...,}M\textcolor{Red}{\}}\textcolor{BrickRed}{]} \\

diff --git a/tex/AGE.tex b/tex/AGE.tex
@@ -12,7 +12,6 @@
 \mbox{}\ \ \ \ \ \ \ \ n$\_$eval\ \textcolor{BrickRed}{+=}\ count\ \textcolor{BrickRed}{(}which\textcolor{BrickRed}{(}\textbf{\textcolor{Blue}{not}}\ population\textcolor{BrickRed}{.}evaluated\textcolor{BrickRed}{))} \\
 \mbox{}\ \ \ \ \ \ \ \ new$\_$generation\ \textcolor{BrickRed}{=}\ reeval\textcolor{BrickRed}{(}new$\_$generation\textcolor{BrickRed}{)} \\
 \mbox{} \\
-\mbox{} \\
 \mbox{}\ \ \ \ \ \ \ \ population\ \textcolor{BrickRed}{=}\ keep$\_$elitism\ \textcolor{BrickRed}{(}population\textcolor{BrickRed}{,}\ best\textcolor{BrickRed}{(}new$\_$generation\textcolor{BrickRed}{))} \\
 \mbox{}\ \ \ \ \ \ \ \ population\ \textcolor{BrickRed}{=}\ keep$\_$elitism\ \textcolor{BrickRed}{(}population\textcolor{BrickRed}{,}\ worst\textcolor{BrickRed}{(}new$\_$generation\textcolor{BrickRed}{))} \\
 \mbox{}\ \ \ \ \textcolor{Red}{\}} \\

diff --git a/pscode/AG_selection.rb b/pscode/AG_selection.rb
@@ -1,10 +1,10 @@
-def selection(num_crom){
-    pairs = [ for i in {1,..,num_crom} {1..n}.random(0 or 1) ]
+def selection(num_crom)
+    pairs = [ for i in {1,..,size_generation}
+            (random({0,...,num_crom}), random({0,...,num_crom})) ]
 
-    v =[for p in pairs{
-        if(pair.first().fitness < pair.second().fitness)
-            yield pair.first()
+    v =[ for p in pairs{
+        if(population[p.first()].fitness < population[p.second()].fitness)
+            yield population[p.first()]
         else
-            yield pair.second()
-    ]
+            yield population[p.second()] ]
 }

diff --git a/pscode/AG_crossover.rb b/pscode/AG_crossover.rb
@@ -12,9 +12,11 @@ def crossover(population, prob){
     i=0
 
     for(j=0; j<n_cruces; j+=1){
-        population[i].mask = crossover(population[i], population[i+1])
-        population[i+1].mask = crossover(population[i+1], population[i])
+        uno  = OX(population[i], population[i+1])
+        otro = OX(population[i+1], population[i])
 
+        population[i] = uno
+        population[i+1] = otro
         population[i].evaluated = False
         population[i+1].evaluated = False
     }

diff --git a/pscode/BMB.rb b/pscode/BMB.rb
@@ -1,7 +1,8 @@
 def BMB(){
-    mascaras = [ random_mask(n) from 0 to max_arranques ]
-    mascaras = [ BL(m): m $\in$ mascaras ]
-    tasas = [ tasa.clas(m): m $\in$ mascaras ]
+    # n el número de predictores de cada dataset
+    mascaras = random_init(n)
+    mascaras = [ BL(m): m in mascaras ]
+    tasas = [ tasa.clas(m): m in mascaras ]
 
     return mascaras [arg max tasas]
 }
